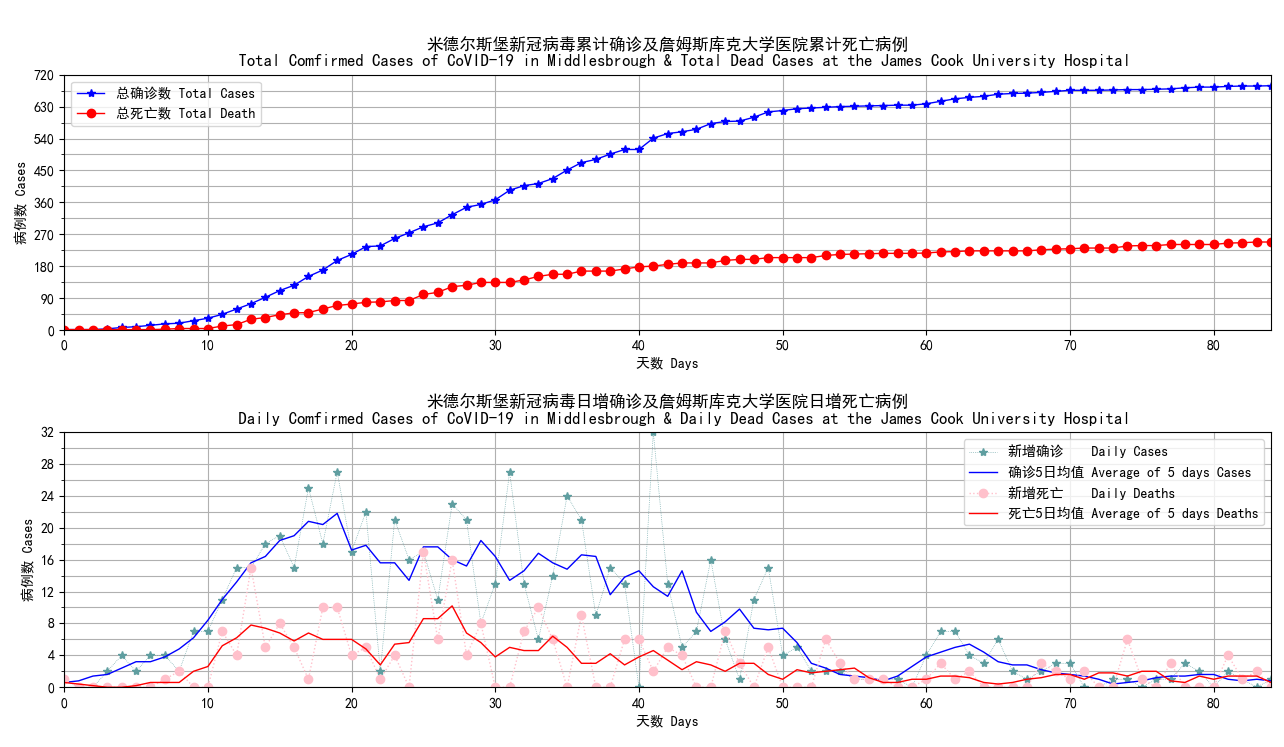
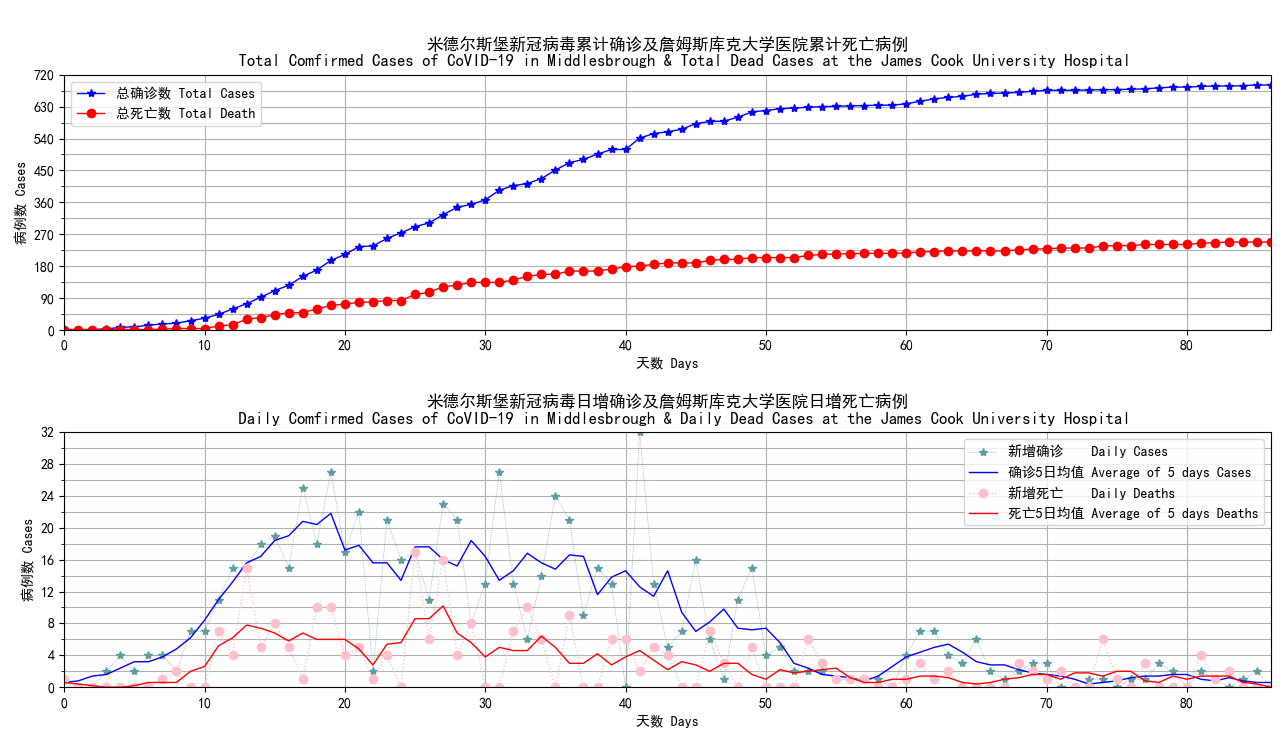
Update

diff --git a/Covid19_TS1.py b/Covid19_TS1.py
@@ -14,13 +14,13 @@ cases = [1, 1, 1, 3, 7, 9, 13, 17, 19, 26, 33, 44, 59, 74, 92, 111, 126, 151, 16
     235, 237, 258, 274, 291, 302, 325, 346, 354, 367, 394, 407, 413, 427, 451, 472, 481, 496,\
     509, 509, 541, 554, 559, 566, 582, 588, 589, 600, 615, 619, 624, 626, 628, 630, 631, 632,\
     633, 634, 634, 638, 645, 652, 656, 659, 665, 667, 668, 670, 673, 676, 676, 676, 677, 678,\
-    678, 679, 680, 683, 685, 685, 687, 688, 688, 689]
+    678, 679, 680, 683, 685, 685, 687, 688, 688, 689, 691, 691]
 #deaths data from NHS
 dcases = [1, 1, 1, 1, 1, 1, 1, 2, 4, 4, 4, 11, 15, 30, 35, 43, 48, 49, 59, 69, 73, 78, 79, 83,\
     83, 100, 106, 122, 126, 134, 134, 134, 141, 151, 157, 157, 166, 166, 166, 172, 178, 180,\
     185, 189, 189, 189, 196, 199, 199, 204, 204, 204, 204, 210, 213, 214, 215, 216, 216, 216,\
     217, 220, 221, 223, 223, 223, 223, 223, 226, 228, 229, 231, 231, 231, 237, 238, 238, 241,\
-    241, 241, 241, 245, 246, 248, 248]
+    241, 241, 241, 245, 246, 248, 248, 248, 248]
 
 #Initial
 #Date config

diff --git a/covid19_TS1_Octave.m b/covid19_TS1_Octave.m
@@ -9,13 +9,13 @@ cases = [1 1 1 3 7 9 13 17 19 26 33 44 59 74 92 111 126 151 169 196 213 ...
     235 237 258 274 291 302 325 346 354 367 394 407 413 427 451 472 481 ...
     496 509 509 541 554 559 566 582 588 589 600 615 619 624 626 628 630 ...
     631 632 633 634 634 638 645 652 656 659 665 667 668 670 673 676 676 ...
-    676 677 678 678 679 680 683 685 685 687 688 688 689 691 691];
+    676 677 678 678 679 680 683 685 685 687 688 688 689];
 %deaths data from NHS
 dcases = [1 1 1 1 1 1 1 2 4 4 4 11 15 30 35 43 48 49 59 69 73 78 79 83 ...
     83 100 106 122 126 134 134 134 141 151 157 157 166 166 166 172 178 ...
     180 185 189 189 189 196 199 199 204 204 204 204 210 213 214 215 216 ...
     216 216 217 220 221 223 223 223 223 223 226 228 229 231 231 231 237 ...
-    238 238 241 241 241 241 245 246 248 248 248 248];
+    238 238 241 241 241 241 245 246 248 248];
 
 %Initial
 %Date config
